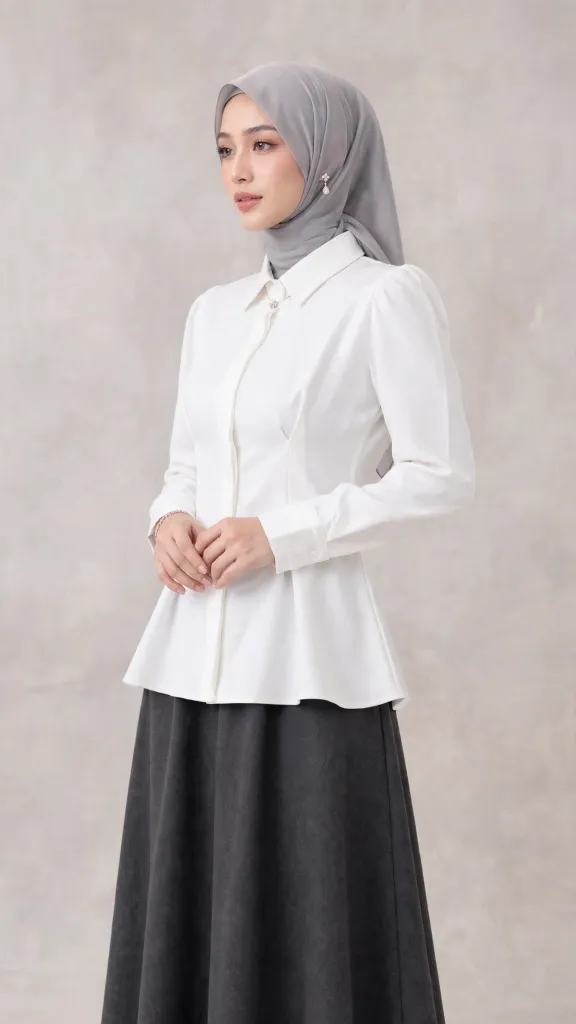
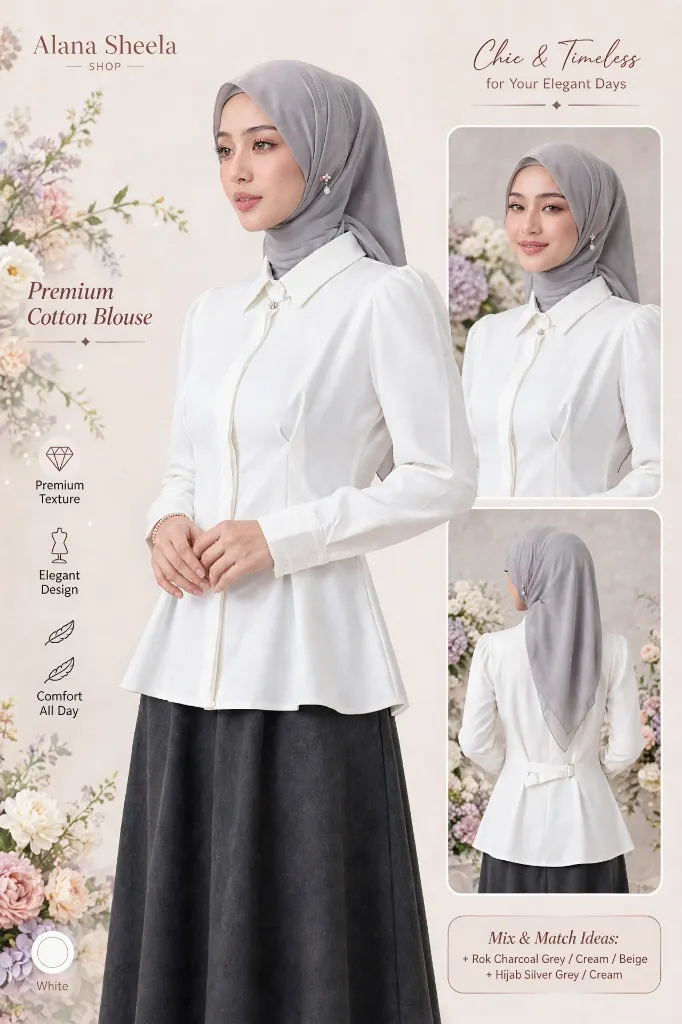
chore: update Look 1 image with editorial cotton blouse poster

diff --git a/src/data/asc-mix-match.ts b/src/data/asc-mix-match.ts
@@ -30,13 +30,13 @@ export interface MixMatchLook {
 export const ASC_MIX_MATCH_LOOKS: MixMatchLook[] = [
   {
     id: 'look-01',
-    title: 'Serene Olive & Krem Hangout',
-    subtitle: 'Look santai, sejuk, dan modis untuk hangout atau nongkrong di cafe',
-    occasion: 'Daily & Weekend Hangout',
-    badge: 'Signature Lala',
-    fullLookImage: '/lala-dress/lala-nordic-10-olive-cream.jpg',
+    title: 'Chic & Timeless Cotton Blouse',
+    subtitle: 'Look rapi, bersih, dan elegan untuk daily office, kuliah, maupun semi-formal',
+    occasion: 'Office, Campus & Elegant Days',
+    badge: 'Chic & Timeless',
+    fullLookImage: '/products/blouse-cotton-editorial.webp',
     lalaQuote:
-      'Paduan blouse tunik putih dengan kulot linen bikin look kelihatan jenjang dan santai, tinggal dipadu shoulder bag krem dan mules lancip biar tetap chic!',
+      'Blouse putih katun premium ini punya potongan ramping yang cantik banget di pinggang. Padukan dengan rok charcoal grey atau krem dan mules lancip biar look-nya sleek & timeless!',
     items: {
       top: {
         type: 'top',
@@ -44,8 +44,8 @@ export const ASC_MIX_MATCH_LOOKS: MixMatchLook[] = [
         categoryTab: 'tops',
         productId: 'asc-tp-01',
         name: 'Blouse Elegan Lembut Simple',
-        color: 'Putih Bersih (Multi Varian)',
-        image: '/products/blouse-elegan-lembut-simple.webp',
+        color: 'Putih Bersih (White)',
+        image: '/products/blouse-cotton-editorial.webp',
         platform: 'shopee',
         marketplaceName: 'Shopee',
         affiliateUrl: 'https://s.shopee.co.id/8KrHWSxaaI',
@@ -54,10 +54,10 @@ export const ASC_MIX_MATCH_LOOKS: MixMatchLook[] = [
         type: 'bottom',
         typeLabel: 'Bawahan (Bottom)',
         categoryTab: 'bottoms',
-        productId: 'asc-bt-02',
-        name: 'Celana Kulot Highwaist Linen Olive',
-        color: 'Warm Olive',
-        image: '/lala-dress/lala-nordic-03-lime-haze.jpg',
+        productId: 'asc-bt-01',
+        name: 'Rok Charcoal Grey / Cream Flare Silk',
+        color: 'Charcoal Grey / Cream',
+        image: '/lala-dress/lala-look-04-olive-saffron.jpg',
         platform: 'shopee',
         marketplaceName: 'Shopee',
         affiliateUrl: 'https://shopee.co.id',

diff --git a/src/data/asc-products.ts b/src/data/asc-products.ts
@@ -212,7 +212,7 @@ export const ASC_PRODUCTS: ASCProduct[] = [
     originalPrice: 0,
     rating: 4.9,
     soldCount: '3.8rb+',
-    image: '/products/blouse-elegan-lembut-simple.webp',
+    image: '/products/blouse-cotton-editorial.webp',
     badge: 'Paling Laris',
     isLalaPick: true,
     description:
